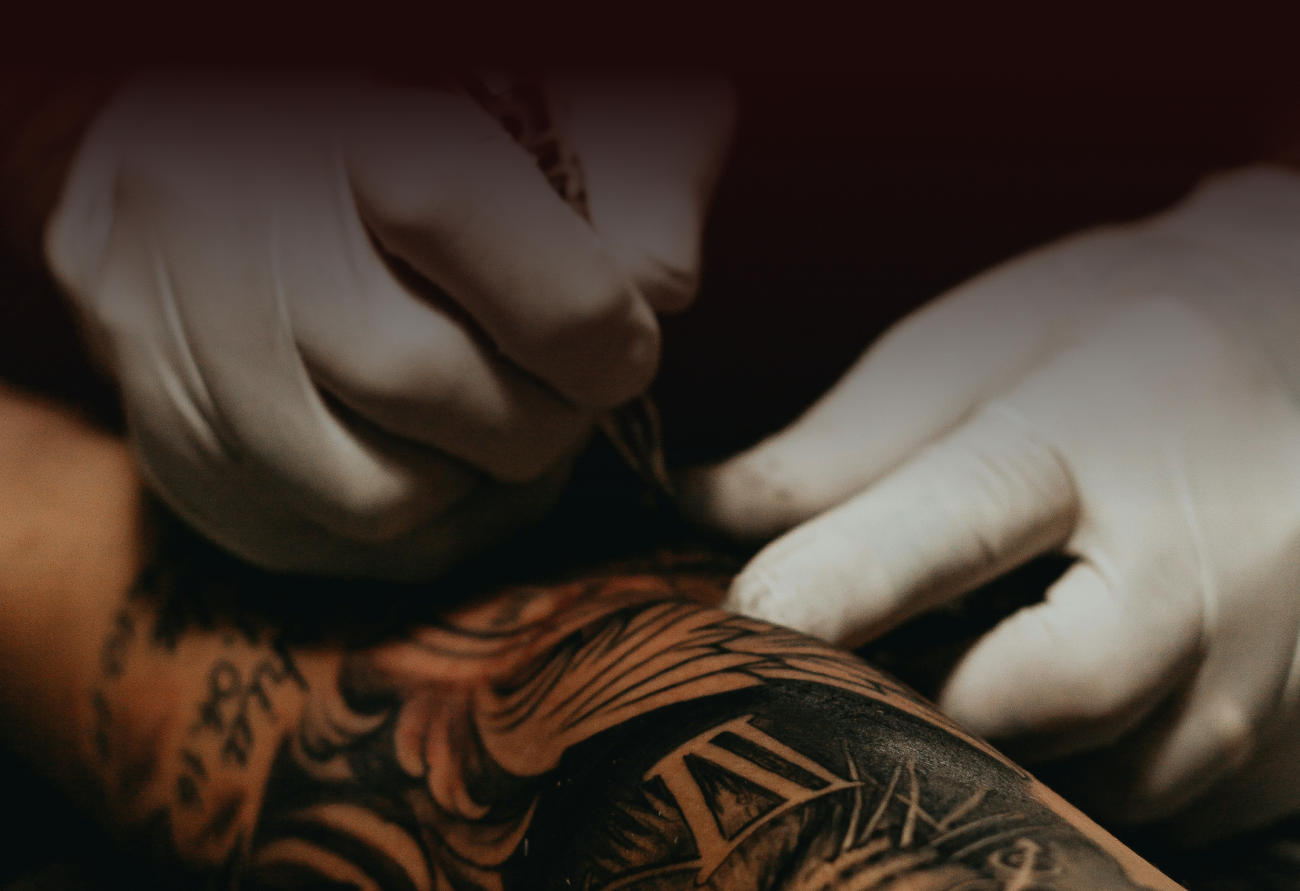
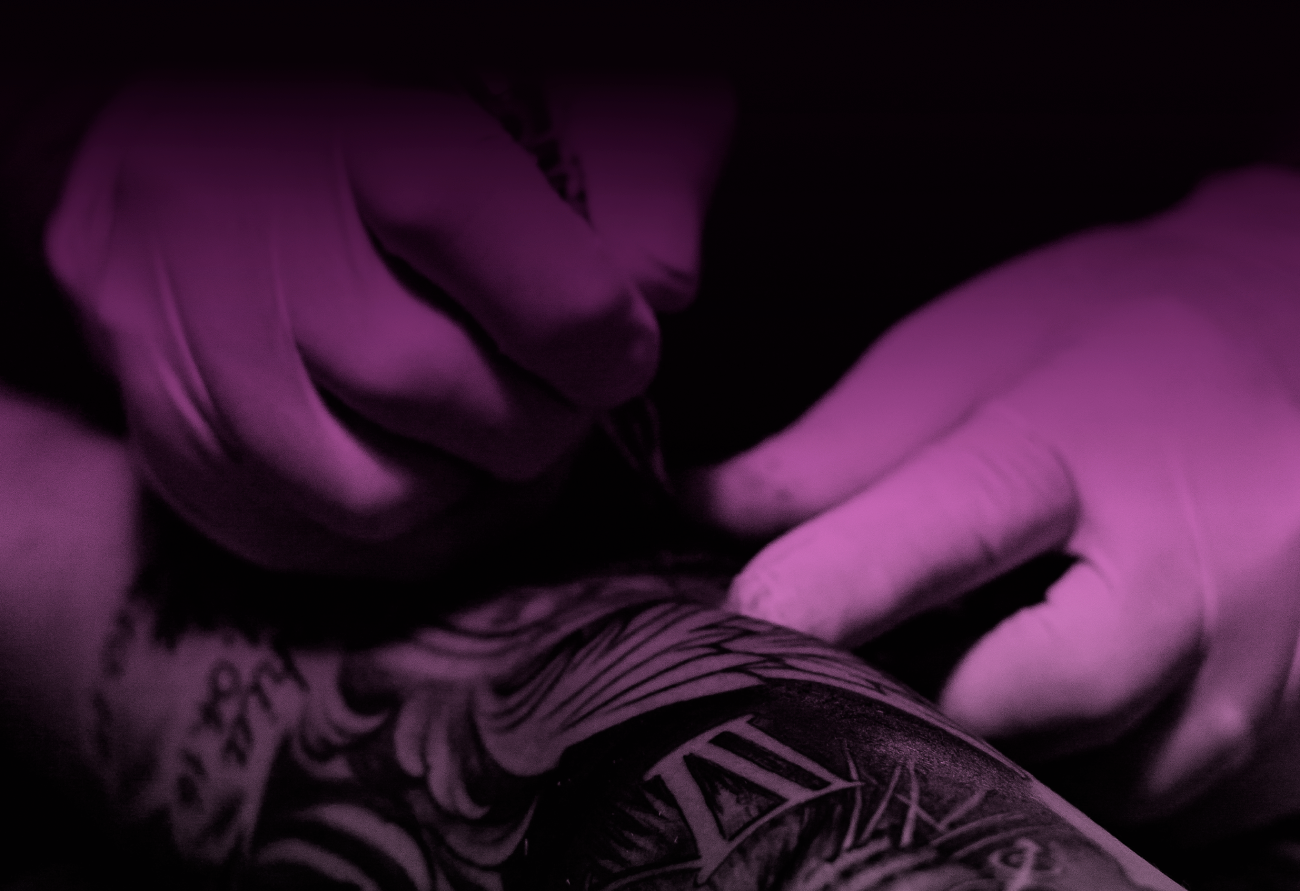
finalizando ajustes CSS
mudando o esquema de cores pro roxo mais profundo, ajustando todo o arquivo nesse padrão.

diff --git a/src/index.html b/src/index.html
@@ -7,6 +7,7 @@
   <title>Karuna Creator</title>
 
   <link rel="stylesheet" href="css/global.css">
+  <link rel="stylesheet" href="css/cabecalhos.css">
   <link href="https://cdn.jsdelivr.net/npm/bootstrap@5.3.3/dist/css/bootstrap.min.css" rel="stylesheet"
     integrity="sha384-QWTKZyjpPEjISv5WaRU9OFeRpok6YctnYmDr5pNlyT2bRjXh0JMhjY6hW+ALEwIH" crossorigin="anonymous">
 </head>
@@ -45,7 +46,7 @@
         <img src="img/pseudo_logo.svg" alt="" class="logo_intro">
 
         <span class="video">
-          <iframe width="640" height="385" src="https://www.youtube.com/embed/SYY5BYjSc-w?si=7zTRo_Gv39LRLbfM" title="YouTube video player" frameborder="0" allow="accelerometer; autoplay; clipboard-write; encrypted-media; gyroscope; picture-in-picture; web-share" referrerpolicy="strict-origin-when-cross-origin" allowfullscreen></iframe>
+          <iframe width="640" height="385" src="https://www.youtube.com/embed/cMDIuqm7Ci4?si=RnPCtimsFXFmR3bY" title="YouTube video player" frameborder="0" allow="accelerometer; autoplay; clipboard-write; encrypted-media; gyroscope; picture-in-picture; web-share" referrerpolicy="strict-origin-when-cross-origin" allowfullscreen></iframe>
         </span>
 
         <button class="inscrever">QUERO ME INSCREVER</button>
@@ -55,8 +56,9 @@
 
 
     <section class="pra_quem">
+      <div class="cabecalho_detalhe"></div>
       <div class="cabecalho">
-        CHAMADA
+        <h3>PRA QUEM É O KC</h3>
       </div>
 
       <div class="content_pra_quem">
@@ -74,8 +76,9 @@
 
 <!--  O QUE VC VAI APRENDER  -->
     <section class="o_que_vai_aprender">
+      <div class="cabecalho_detalhe"></div>
       <div class="cabecalho">
-        O QUE VC VAI APRENDER
+        <h3>O QUE VC VAI APRENDER</h3>
       </div>
 
       <div class="aprender_content_1">
@@ -107,14 +110,14 @@
           </div>
           <div class="carousel-inner">
             <div class="carousel-item active">
-              <img src="" class="d-block w-100" alt="...">
+              <img src="img/tatoo1 1.png" class="d-block w-100" alt="...">
             </div>
             <div class="carousel-item">
-              <img src="..." class="d-block w-100" alt="...">
+              <img src="img/tatoo2 1.png" class="d-block w-100" alt="...">
             </div>
-            <div class="carousel-item">
-              <img src="..." class="d-block w-100" alt="...">
-            </div>
+            <!-- <div class="carousel-item">
+              <img src="img/tatoo1 1.png" class="d-block w-100" alt="...">
+            </div> -->
           </div>
           <button class="carousel-control-prev" type="button" data-bs-target="#carouselExampleIndicators" data-bs-slide="prev">
             <span class="carousel-control-prev-icon" aria-hidden="true"></span>
@@ -127,8 +130,8 @@
 
           
         </div>
-        <button class="inscrever">QUERO ME INSCREVER</button>
       </div>
+      <button class="inscrever" style="margin: auto;">QUERO ME INSCREVER</button>
 
     </section>
 
@@ -136,8 +139,9 @@
 <!-- DIFERENCIAIS DO CURSO -->    
 
     <section class="diferenciais">
-      <div class="cabecalho_diferenciais">
-        DIFERENCIAIS DO CURSO
+      <div class="cabecalho_detalhe"></div>
+      <div class="cabecalho">
+        <h3>DIFERENCIAIS DO CURSO</h3>
       </div>
       
       <div class="content_diferenciais">
@@ -163,13 +167,14 @@
 <!-- CONSOLIDAÇÃO DA MARCA -->    
 
 <section class="consolidacao">
-  <div class="cabecalho_consolidacao">
-    CONSOLIDAÇÃO DA MARCA
+  <div class="cabecalho_detalhe"></div>
+  <div class="cabecalho">
+    <h3>CONSOLIDAÇÃO DA MARCA</h3>
   </div>
 
   <div class="content_consolidacao">
     <div class="pq_sou_melhor">
-      PORQUE SOU O MELHOR?
+      <h3>Lorem ipsum dolor sit amet consectetur adipisicing elit. Inventore, labore. Quod voluptate nisi aspernatur, dignissimos nulla fugiat nemo adipisci maxime facere, fuga eius assumenda atque?</h3>
     </div>
   </div>
 

diff --git a/src/css/global.css b/src/css/global.css
@@ -21,13 +21,13 @@ body {
     background-image: url(../img/fundo\ tela\ inicial.png);
     background-color: rgb(32, 17, 46);
     background-repeat: no-repeat;
-    background-size: cover;
-    height: 45rem;
+    background-size: 100% 100%;
+    height: 50rem;
     display: flex;
     flex-direction: column;
     align-items: center;
-    gap: 2rem;
-    padding-top: 2rem;
+    gap: 3rem;
+    padding-top: 4rem;
 
 }
 
@@ -40,22 +40,33 @@ body {
     height: 40px;
     border: none;
     border-radius: 3rem;
-    background-color: rgb(229, 189, 10);
+    background-color: #e0920a;
     font-weight: 700;
     font-size: large;
+    color: #330523;
+    animation: drop_shadow_botao 2s both infinite;
+}
+
+@keyframes drop_shadow_botao {
+    0% {
+        box-shadow: 0px 0px 2px #e0920a;
+    }
+    50% {
+        box-shadow: 0px 0px 20px #e0920a;
+    }
+    100% {
+        box-shadow: 0px 0px 2px #e0920a;
+    }
 }
 
 
 /*  PRA QUEM */
 
-.cabecalho {
-    height: 4rem;
-    background-color: #591212;
-}
+
 
 .content_pra_quem {
     height: 40rem;
-    background-color: #1C0909;
+    background-color: #200115;
     display: flex;
     flex-direction: column;
     align-items: center;
@@ -63,8 +74,8 @@ body {
     gap: 2rem;
 }
 
-.titulo_pra_quem {
-    color: #E1AC54;
+.titulo_pra_quem, .galeria h1 {
+    color: #98427a;
     font-size: 3rem;
 }
 
@@ -74,13 +85,16 @@ body {
     justify-content: space-between;
     align-items: center;
     width: 100%;
-    background-color: #1C0909;
 }
 
 .frame_pra_quem {
     height: 25rem;
-    width: 25rem;
-    background-color: #591212;
+    width: 30%;
+    padding: 15px;
+    border: solid 1px #98427a;
+    font-size: 25px;
+    color: #98427a;
+    background-color: #43052c;
     border-radius: 1rem;
 }
 
@@ -88,7 +102,7 @@ body {
 
 .o_que_vai_aprender {
     height: 90rem;
-    background: linear-gradient(0deg, #431414, #1C0909);
+    background: linear-gradient(0deg, #43052c, #330523);
 }
 
 .aprender_content_1 {
@@ -116,7 +130,7 @@ body {
     height: 35rem;
     width: 35rem;
     font-size: 30px;
-    color:  rgb(229, 189, 10);
+    color:  #98427a;
 }
 
 .frame_aprender_texto li {
@@ -127,12 +141,14 @@ body {
     display: flex;
     flex-direction: column;
     align-items: center;
+    margin-bottom: 100px;
 }
 
-#carouselExampleIndicators {
-    height: 40rem;
-    width: 80%;
+.carousel-item {
+    height: 25rem;
+    width: 100%;
 }
+
 
 
 /*  DIFERENCIAIS DO CURSO */
@@ -143,8 +159,8 @@ body {
 }
 
 .content_diferenciais {
-    height: 40rem;
-    background-image: url(../img/flashs.jpg);
+    height: 30rem;
+    background-image: url(../img/flashs.png);
     background-repeat: no-repeat;
     background-size: cover;
     display: flex;
@@ -169,9 +185,10 @@ body {
 }
 
 .conteudo_lista li {
-    font-size: 1.6rem;
+    font-size: 1.2rem;
     margin: 1.2rem;
     font-weight: 700;
+    color: #330523;
 }
 
 
@@ -184,9 +201,10 @@ body {
 }
 
 .content_consolidacao {
-    background-image: linear-gradient(to right, transparent 0%, #000000 70%, #000000 80%, #000000 90%,  #000000 100%), url(../img/tatuador_2.jpg);
+    /* background-image: linear-gradient(to right, transparent 0%, #000000 70%, #000000 80%, #000000 90%,  #000000 100%), url(../img/tatuador_2.jpg); */
+    background-image: url("/src/img/tatuador_2.png");
     background-repeat: no-repeat;
-    background-size: contain;
+    background-size: cover;
     height: 40rem;
     padding: 3rem;
     display: flex;
@@ -196,8 +214,11 @@ body {
 .pq_sou_melhor {
     height: 100%;
     width: 50%;
-    background-color: #5912129a;
+    background-color: #43052cbb;
     border-radius: 3rem;
+    color: #98427a;
+    padding: 25px;
+    border: solid 1px #98427a;
     
 }
 

diff --git a/src/css/cabecalhos.css b/src/css/cabecalhos.css
@@ -1,0 +1,63 @@
+@import url('https://fonts.googleapis.com/css2?family=Playwrite+DE+Grund:wght@100..400&display=swap');
+
+.cabecalho {
+  height: 4rem;
+  background-color: #43052c;
+  display: flex;
+  justify-content: center;
+  align-items: center;
+  overflow: hidden;
+}
+
+.cabecalho_detalhe {
+  height: 1.2px;
+  background: radial-gradient(circle, #98427a 0%, #330523 30%, #330523 100%);
+  background-size: 300% 300%;
+  animation: gradiente_cabecalho 7s infinite;
+}
+@keyframes gradiente_cabecalho {
+  0%{
+    background-position: 15% 50%;
+  }
+  50%{
+    background-position: 85% 50%;
+  }
+  100%{
+    background-position: 15% 50%;
+  }
+  
+}
+
+.cabecalho h3 {
+  font-family: "Playwrite DE Grund", cursive;
+  color: #e0920a;
+  padding: 0;
+  margin: 0;
+  font-size: 3rem;
+  position: relative;
+  font-weight: 400;
+  
+  animation: tracking-in-expand 8s cubic-bezier(0.215, 0.610, 0.355, 1.000) both infinite; 
+}
+
+@keyframes tracking-in-expand {
+  0% {
+    letter-spacing: 0.2em;
+    opacity: 1;
+  }
+  40% {
+    opacity: 0.6;
+  }
+  50% {
+    opacity: 0.6;
+    letter-spacing: 1em;
+  }
+  
+  60% {
+    opacity: 0.6;
+  }
+  100% {
+    letter-spacing: 0.2em;
+    opacity: 1;
+  }
+}
